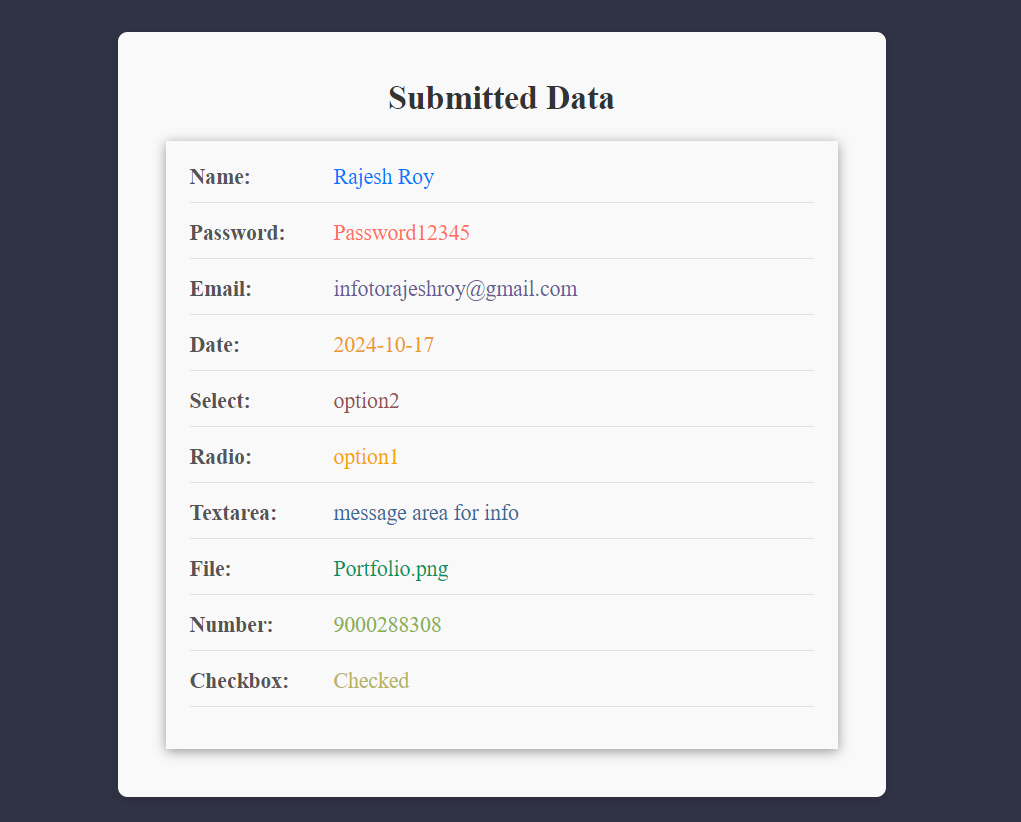
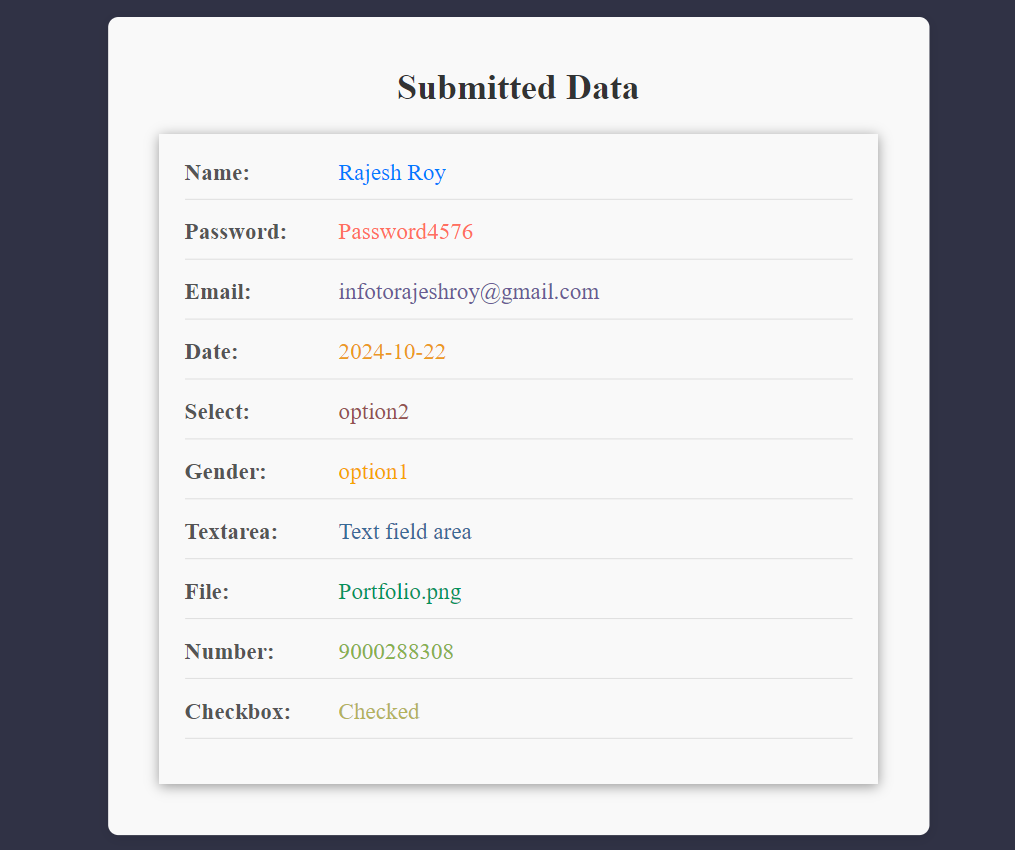
images update

diff --git a/src/components/FormComponent.tsx b/src/components/FormComponent.tsx
@@ -24,7 +24,7 @@ const FormComponent: React.FC = () => {
   const [date, setDate] = useState("");
   const [select, setSelect] = useState("");
   const [checkbox, setCheckbox] = useState(false);
-  const [radio, setRadio] = useState("");
+  const [gender, setGender] = useState("");
   const [textarea, setTextarea] = useState("");
   const [file, setFile] = useState<File | null>(null);
 
@@ -45,7 +45,7 @@ const FormComponent: React.FC = () => {
     if (number <= 0) newErrors.number = "Please enter Phone number";
     if (!date) newErrors.date = "Date is required";
     if (!select) newErrors.select = "Please select an option";
-    if (!radio) newErrors.radio = "Please choose a gender option";
+    if (!gender) newErrors.radio = "Please choose a gender option";
     if (!textarea.trim()) newErrors.textarea = "Textarea is required";
     if (!file) newErrors.file = "Please upload a file";
     if (!checkbox) newErrors.checkbox = "You must agree to the terms";
@@ -61,7 +61,7 @@ const FormComponent: React.FC = () => {
       email,
       date,
       select,
-      radio,
+      gender,
       textarea,
       file,
       number,
@@ -162,16 +162,16 @@ const FormComponent: React.FC = () => {
                     id="radioOption1"
                     type="radio"
                     value="option1"
-                    checked={radio === "option1"}
-                    onChange={(e) => setRadio(e.target.value)}
+                    checked={gender === "option1"}
+                    onChange={(e) => setGender(e.target.value)}
                   />
                   <label htmlFor="radioOption1">Option 1</label>
                   <input
                     id="radioOption2"
                     type="radio"
                     value="option2"
-                    checked={radio === "option2"}
-                    onChange={(e) => setRadio(e.target.value)}
+                    checked={gender === "option2"}
+                    onChange={(e) => setGender(e.target.value)}
                   />
                   <label htmlFor="radioOption2">Option 2</label>
                 </div>

diff --git a/src/redux/formSlice.ts b/src/redux/formSlice.ts
@@ -3,14 +3,14 @@ import { createSlice, PayloadAction } from "@reduxjs/toolkit";
 interface FormData {
   name: string;
   password: string;
-  email: string;
-  number: number;
+  email: string;  
   date: string; 
-  select: string;
-  checkbox: boolean;
-  radio: string;
+  select: string;  
+  gender: string;
   textarea: string;
   file: File | null; 
+  number: number;
+  checkbox: boolean;
 }
 
 interface FormSliceState {
@@ -24,7 +24,7 @@ const initialState: FormSliceState = {
     email: '',    
     date: '',
     select: '',    
-    radio: '',
+    gender: '',
     textarea: '',
     file: null,
     number: 0,

diff --git a/src/components/DisplayComponent.tsx b/src/components/DisplayComponent.tsx
@@ -30,8 +30,8 @@ const DisplayComponent: React.FC = () => {
         </div>
 
         <div className="data-field">
-          <p className="data-label radio-label">Radio:</p>
-          <p className="data-value radio-value">{formData.radio}</p>
+          <p className="data-label radio-label">Gender:</p>
+          <p className="data-value radio-value">{formData.gender}</p>
         </div>
         <div className="data-field">
           <p className="data-label textarea-label">Textarea:</p>

diff --git a/README.md b/README.md
@@ -34,7 +34,7 @@ In the project repo, you can checkout the complete code:
 
 ![Screenshot](./images/Test%20Coverage%20for%20FormComponent%20Screenshot.png)
 
-![Screenshot](./images/Test%20Coverage%20for%20FormComponent%20Screenshot.png)
+![Screenshot](./images/Test%20Coverage%20for%20All%20Components%20Screenshot.png)
 
 ### Form Submitted data to Redux store
 
